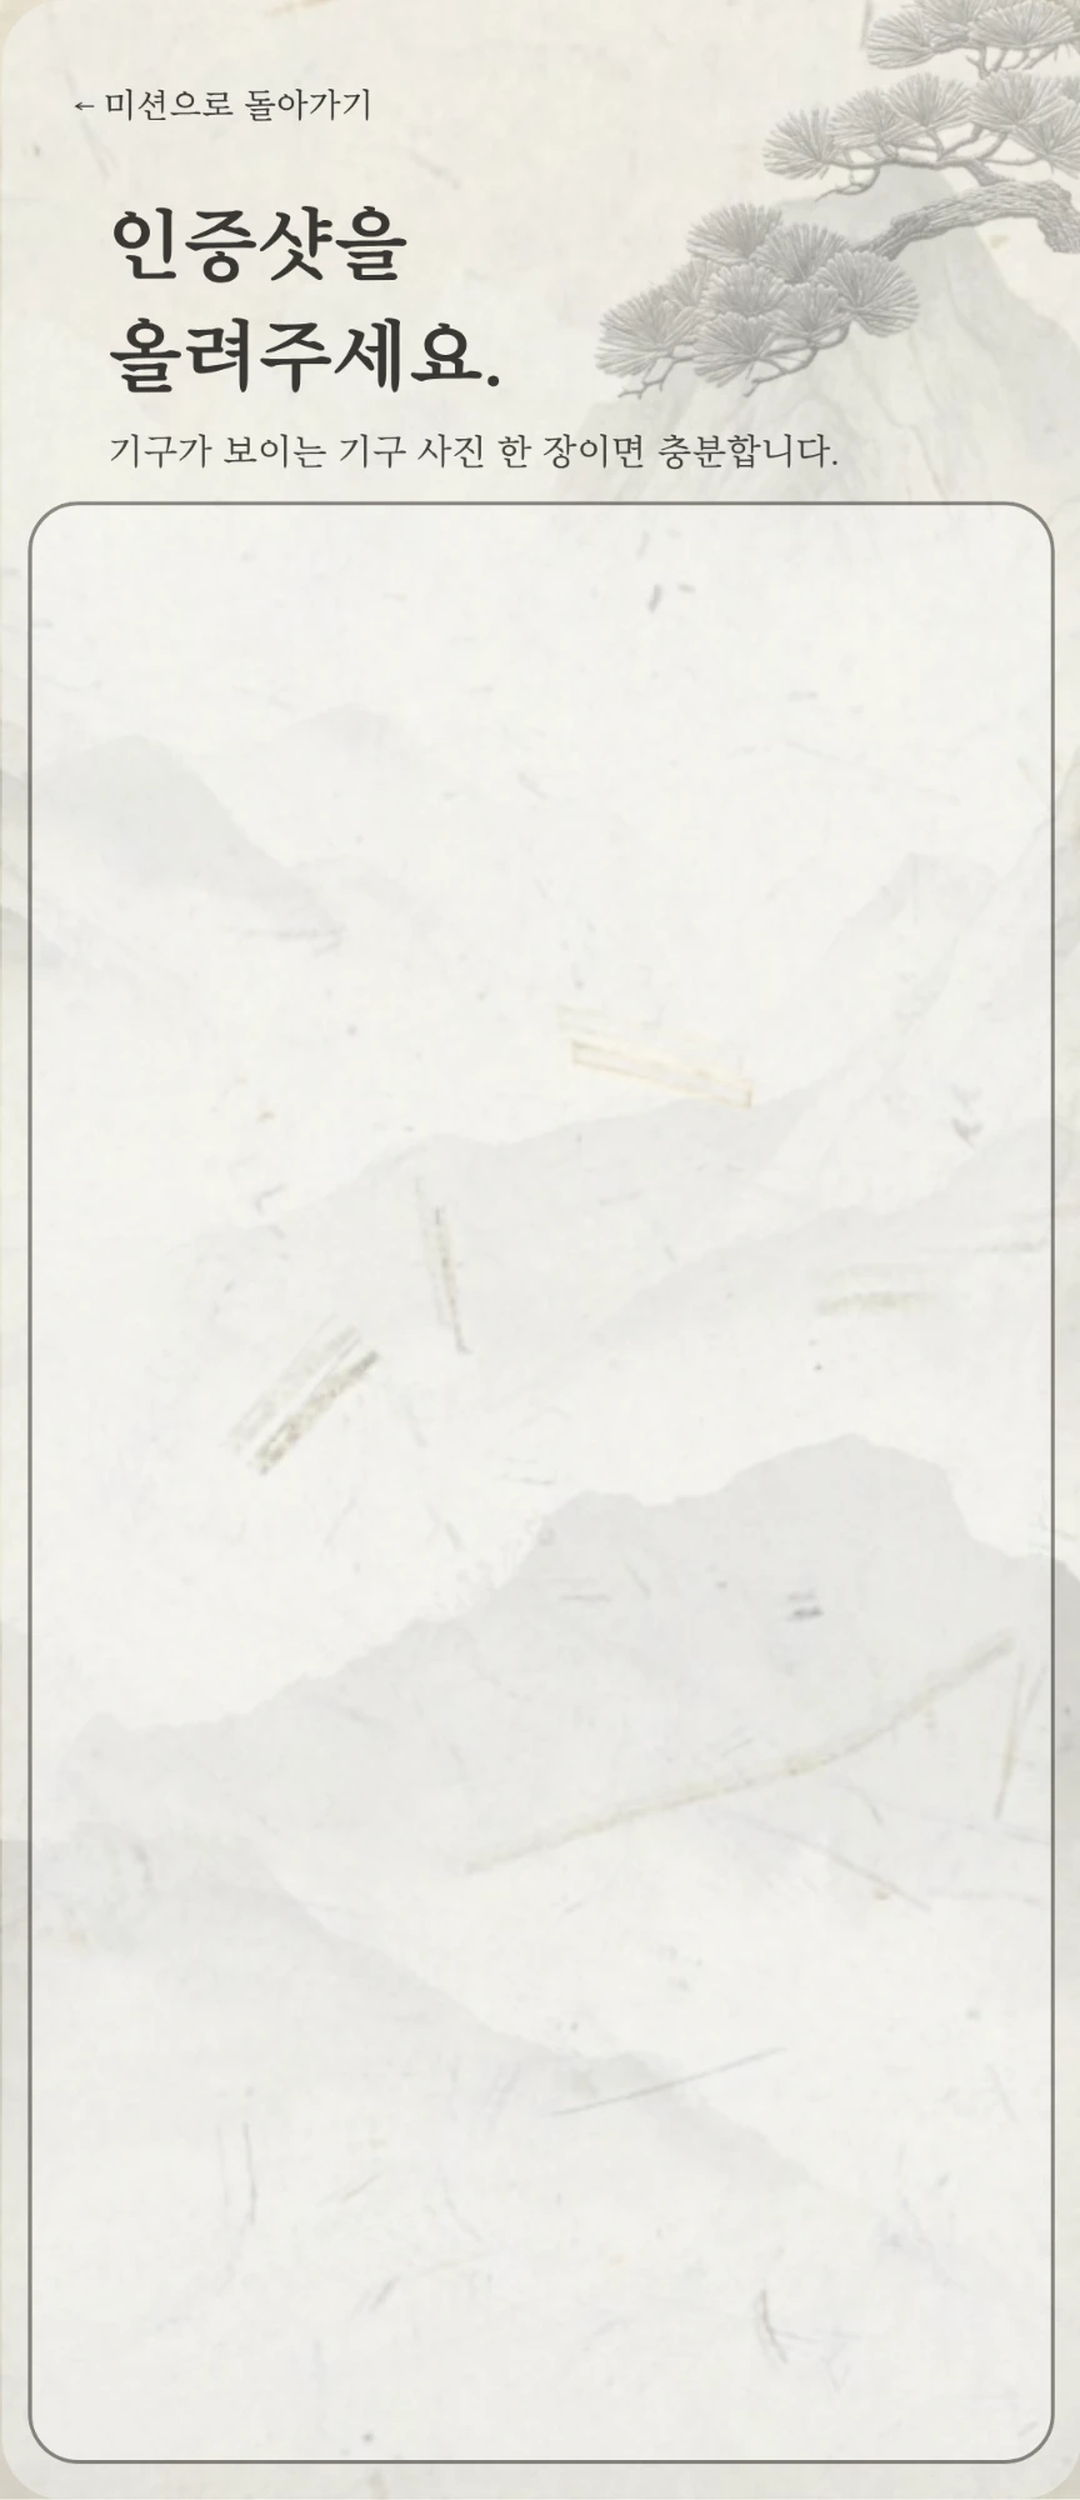
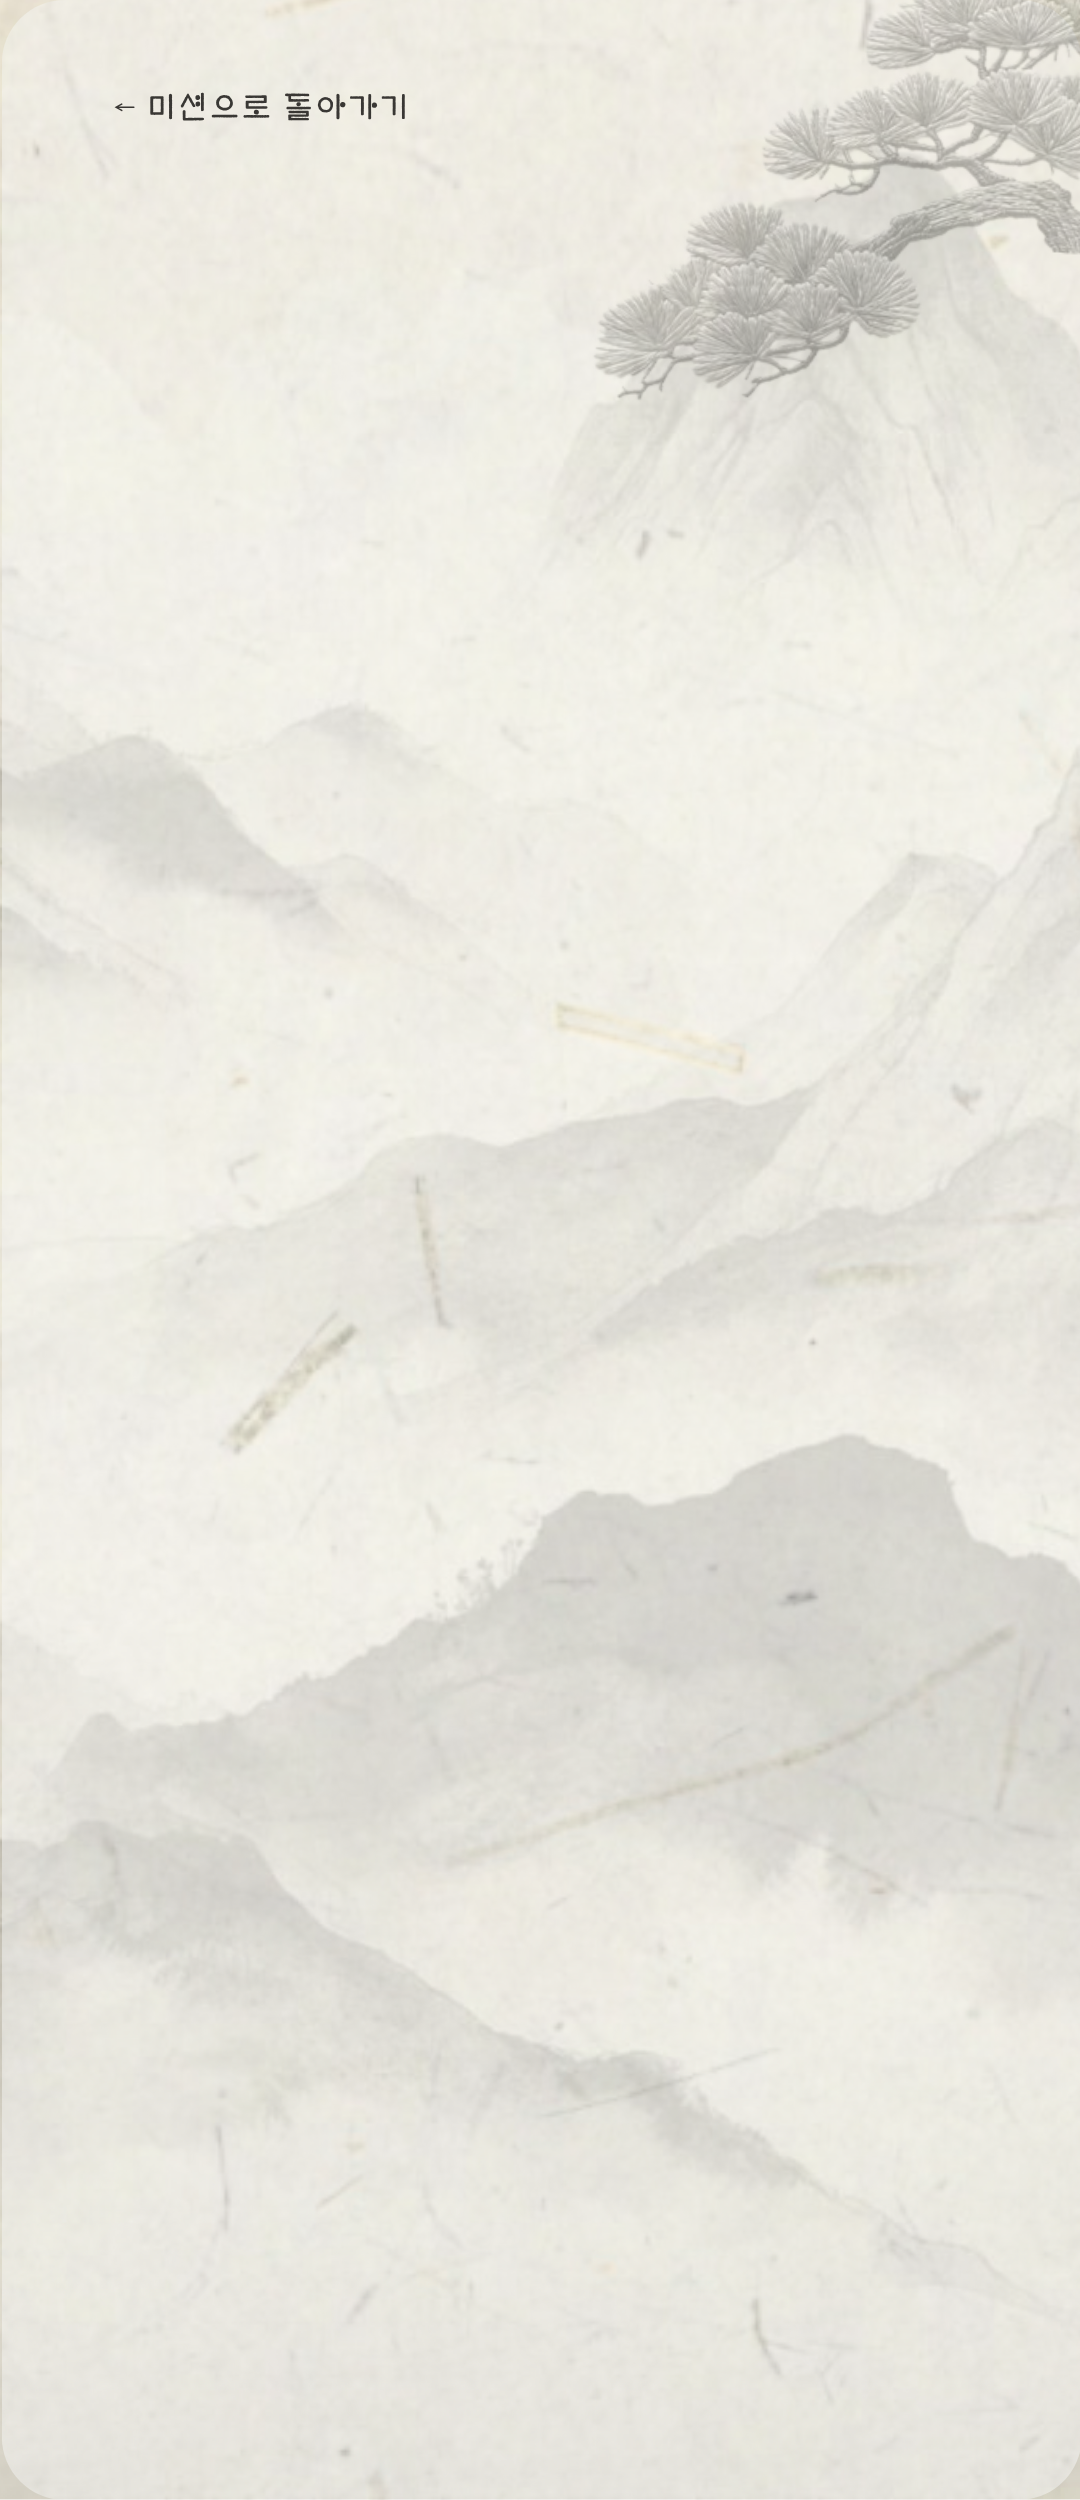
Najeon-style tap particles, GX list top-aligned, new verify background
- Character tap-burst now renders mother-of-pearl (najeon) butterflies
  and blossoms via gradient-filled SVG instead of default-colored
  emoji, matching the reference pattern.
- Mission list always starts from the top of the panel again (dropped
  the vertical-centering behavior per feedback).
- GX mission's equipment gallery reordered: 파워코어 트레이닝, 덤벨
  트레이닝, 요가, 매트필라테스.
- Verify (photo certification) screen background replaced with the
  cleaner plain version; the "인증샷을 올려주세요." title, previously
  baked into the old art, is now a live HTML element in the same spot
  so it survives the background swap.

Claude-Session: https://claude.ai/code/session_01ETpyKwDybWVp2Pysc4enQK

diff --git a/demos/full_flow.html b/demos/full_flow.html
@@ -63,10 +63,10 @@ button,
   position:fixed;
   left:0;top:0;
   transform:translate(-50%,-50%);
-  font-size:20px;
   pointer-events:none;
   z-index:999;
   animation:tapBurst .9s ease-out forwards;
+  filter:drop-shadow(0 1px 2px rgba(0,0,0,0.18));
 }
 @keyframes tapBurst{
   0%{transform:translate(-50%,-50%) translate(0,0) scale(0.5) rotate(0deg);opacity:1;}
@@ -495,6 +495,12 @@ button,
   left:6.9%;top:47.4%;width:60%;height:2.6%;
   display:flex;align-items:center;
   color:#3A3835;font-size:15px;font-weight:700;
+}
+.verify-title{
+  position:absolute;
+  left:9%;top:7.6%;width:60%;
+  margin:0;
+  color:var(--ink);font-size:28px;font-weight:700;line-height:1.35;
 }
 .verify-subtitle{
   position:absolute;
@@ -1225,6 +1231,7 @@ button,
     <div class="verify-wrap">
       <img class="hero" src="https://raw.githubusercontent.com/gran-seoul-fitness/10-/claude/happy-wozniak-zu6wr0/images/health/mission_verify_bg.png">
       <a class="verify-back" onclick="closeVerify()"></a>
+      <div class="verify-title">인증샷을<br>올려주세요.</div>
       <div class="verify-subtitle" id="verifySubtitle">기구가 보이는 사진 한 장이면 충분합니다.</div>
       <div class="verify-gallery" id="verifyGallery"></div>
       <div class="verify-badge" id="verifyBadge"></div>
@@ -1384,10 +1391,10 @@ const EQUIP_OPTIONS = {
     {name:'싱크로', img:'cardio-synchro.jpg'},
   ],
   'gx-0': [ // 요가·줌바·필라테스
+    {name:'파워코어 트레이닝', img:'gx-powercore.jpg'},
+    {name:'덤벨 트레이닝', img:'gx-dumbbell.jpg'},
     {name:'요가', img:'gx-yoga.jpg'},
     {name:'매트필라테스', img:'gx-matpilates.jpg'},
-    {name:'덤벨 트레이닝', img:'gx-dumbbell.jpg'},
-    {name:'파워코어트레이닝', img:'gx-powercore.jpg'},
   ],
   'stretch-0': [ // 기구 스트레칭
     {name:'FLEXABILITY ANTERIOR', img:'stretch-anterior.jpg'},
@@ -1455,14 +1462,6 @@ document.querySelectorAll('.zone-hit[data-zone]').forEach(zoneEl=>{
   });
 });
 
-/* Panel border box (measured from the mission background art) and per-card
-   size, both as % of the mission-wrap's height, used to vertically center
-   shorter mission lists inside the panel instead of hugging the top. */
-const MISSION_PANEL_TOP = 17.4;
-const MISSION_PANEL_BOTTOM = 86.5;
-const MISSION_CARD_H = 10.5;
-const MISSION_CARD_GAP_PCT = 1.85;
-
 function renderMissionList(key){
   const z = zones[key];
   const done = getDoneSet();
@@ -1481,12 +1480,6 @@ function renderMissionList(key){
       <div class="mission-name-bar">${m}</div>`;
     list.appendChild(item);
   });
-
-  const n = z.missions.length;
-  const contentH = n * MISSION_CARD_H + (n - 1) * MISSION_CARD_GAP_PCT;
-  const panelH = MISSION_PANEL_BOTTOM - MISSION_PANEL_TOP;
-  const centeredTop = MISSION_PANEL_TOP + Math.max(0, (panelH - contentH) / 2);
-  list.style.top = Math.max(centeredTop, 25.9) + '%';
 }
 
 document.getElementById('missionList').addEventListener('click', (e)=>{
@@ -2001,38 +1994,53 @@ if (location.hash === '#select') {
 }
 
 /* ---------- Tap the character: butterflies & flowers pop out ---------- */
-function spawnEmojiBurst(anchorEl, emojis){
-  const rect = anchorEl.getBoundingClientRect();
-  const cx = rect.left + rect.width / 2;
-  const cy = rect.top + rect.height / 2;
-  const count = 7;
-  for(let i = 0; i < count; i++){
-    const el = document.createElement('div');
-    el.className = 'tap-burst-particle';
-    el.textContent = emojis[Math.floor(Math.random() * emojis.length)];
-    const angle = (Math.PI * 2 / count) * i + (Math.random() * 0.5 - 0.25);
-    const dist = 50 + Math.random() * 34;
-    el.style.left = cx + 'px';
-    el.style.top = cy + 'px';
-    el.style.setProperty('--dx', Math.cos(angle) * dist + 'px');
-    el.style.setProperty('--dy', (Math.sin(angle) * dist - 24) + 'px');
-    el.style.setProperty('--rot', (Math.random() * 80 - 40) + 'deg');
-    document.body.appendChild(el);
-    setTimeout(() => el.remove(), 950);
-  }
-}
-
 const charWrapEl = document.querySelector('.char-wrap');
 charWrapEl.style.cursor = 'pointer';
 charWrapEl.addEventListener('click', () => {
-  spawnEmojiBurst(charWrapEl, ['🦋','🌸','🌼','✨']);
+  spawnEmojiBurst(charWrapEl);
   charWrapEl.classList.remove('tapped');
   void charWrapEl.offsetWidth;
   charWrapEl.classList.add('tapped');
 });
 
 /* ---------- Tap the character: butterflies & flowers pop out ---------- */
-function spawnEmojiBurst(anchorEl, emojis){
+let tapBurstIdCounter = 0;
+function najeonButterflySVG(uid){
+  return `<svg viewBox="0 0 40 32" width="26" height="21">
+    <defs>
+      <linearGradient id="pearl${uid}" x1="0" y1="0" x2="1" y2="1">
+        <stop offset="0%" stop-color="#F8F6F2"/>
+        <stop offset="35%" stop-color="#CFE0DE"/>
+        <stop offset="65%" stop-color="#D9CBE8"/>
+        <stop offset="100%" stop-color="#F0D9E2"/>
+      </linearGradient>
+    </defs>
+    <path d="M20 16 C14 2 2 2 3 12 C4 20 14 20 20 16 Z" fill="url(#pearl${uid})" stroke="#8B93A8" stroke-width="0.6"/>
+    <path d="M20 16 C26 2 38 2 37 12 C36 20 26 20 20 16 Z" fill="url(#pearl${uid})" stroke="#8B93A8" stroke-width="0.6"/>
+    <path d="M20 16 C15 20 8 26 10 30 C13 32 18 26 20 16 Z" fill="url(#pearl${uid})" stroke="#8B93A8" stroke-width="0.6" opacity="0.9"/>
+    <path d="M20 16 C25 20 32 26 30 30 C27 32 22 26 20 16 Z" fill="url(#pearl${uid})" stroke="#8B93A8" stroke-width="0.6" opacity="0.9"/>
+    <line x1="20" y1="10" x2="20" y2="20" stroke="#5B5F6E" stroke-width="1.2"/>
+  </svg>`;
+}
+function najeonBlossomSVG(uid){
+  return `<svg viewBox="0 0 32 32" width="22" height="22">
+    <defs>
+      <linearGradient id="pearlB${uid}" x1="0" y1="0" x2="1" y2="1">
+        <stop offset="0%" stop-color="#F8F6F2"/>
+        <stop offset="40%" stop-color="#E6D6E8"/>
+        <stop offset="100%" stop-color="#CFE0DE"/>
+      </linearGradient>
+    </defs>
+    <g fill="url(#pearlB${uid})" stroke="#8B93A8" stroke-width="0.6">
+      <ellipse cx="16" cy="7" rx="5" ry="7"/>
+      <ellipse cx="25" cy="16" rx="7" ry="5"/>
+      <ellipse cx="16" cy="25" rx="5" ry="7"/>
+      <ellipse cx="7" cy="16" rx="7" ry="5"/>
+    </g>
+    <circle cx="16" cy="16" r="3.5" fill="#E9C9A9"/>
+  </svg>`;
+}
+function spawnEmojiBurst(anchorEl){
   const rect = anchorEl.getBoundingClientRect();
   const cx = rect.left + rect.width / 2;
   const cy = rect.top + rect.height / 2;
@@ -2040,7 +2048,8 @@ function spawnEmojiBurst(anchorEl, emojis){
   for(let i = 0; i < count; i++){
     const el = document.createElement('div');
     el.className = 'tap-burst-particle';
-    el.textContent = emojis[Math.floor(Math.random() * emojis.length)];
+    tapBurstIdCounter++;
+    el.innerHTML = (i % 2 === 0) ? najeonButterflySVG(tapBurstIdCounter) : najeonBlossomSVG(tapBurstIdCounter);
     const angle = (Math.PI * 2 / count) * i + (Math.random() * 0.5 - 0.25);
     const dist = 46 + Math.random() * 30;
     el.style.left = cx + 'px';
@@ -2056,7 +2065,7 @@ function spawnEmojiBurst(anchorEl, emojis){
 const charMiniEl = document.getElementById('charMini');
 charMiniEl.style.cursor = 'pointer';
 charMiniEl.addEventListener('click', () => {
-  spawnEmojiBurst(charMiniEl, ['🦋','🌸','🌼','✨']);
+  spawnEmojiBurst(charMiniEl);
   charMiniEl.classList.remove('tapped');
   void charMiniEl.offsetWidth;
   charMiniEl.classList.add('tapped');

diff --git a/demos/gym_map.html b/demos/gym_map.html
@@ -63,10 +63,10 @@ button,
   position:fixed;
   left:0;top:0;
   transform:translate(-50%,-50%);
-  font-size:20px;
   pointer-events:none;
   z-index:999;
   animation:tapBurst .9s ease-out forwards;
+  filter:drop-shadow(0 1px 2px rgba(0,0,0,0.18));
 }
 @keyframes tapBurst{
   0%{transform:translate(-50%,-50%) translate(0,0) scale(0.5) rotate(0deg);opacity:1;}
@@ -376,6 +376,12 @@ button,
   left:6.9%;top:47.4%;width:60%;height:2.6%;
   display:flex;align-items:center;
   color:#3A3835;font-size:15px;font-weight:700;
+}
+.verify-title{
+  position:absolute;
+  left:9%;top:7.6%;width:60%;
+  margin:0;
+  color:var(--ink);font-size:28px;font-weight:700;line-height:1.35;
 }
 .verify-subtitle{
   position:absolute;
@@ -919,6 +925,7 @@ button,
     <div class="verify-wrap">
       <img class="hero" src="https://raw.githubusercontent.com/gran-seoul-fitness/10-/claude/happy-wozniak-zu6wr0/images/health/mission_verify_bg.png">
       <a class="verify-back" onclick="closeVerify()"></a>
+      <div class="verify-title">인증샷을<br>올려주세요.</div>
       <div class="verify-subtitle" id="verifySubtitle">기구가 보이는 사진 한 장이면 충분합니다.</div>
       <div class="verify-gallery" id="verifyGallery"></div>
       <div class="verify-badge" id="verifyBadge"></div>
@@ -1078,10 +1085,10 @@ const EQUIP_OPTIONS = {
     {name:'싱크로', img:'cardio-synchro.jpg'},
   ],
   'gx-0': [ // 요가·줌바·필라테스
+    {name:'파워코어 트레이닝', img:'gx-powercore.jpg'},
+    {name:'덤벨 트레이닝', img:'gx-dumbbell.jpg'},
     {name:'요가', img:'gx-yoga.jpg'},
     {name:'매트필라테스', img:'gx-matpilates.jpg'},
-    {name:'덤벨 트레이닝', img:'gx-dumbbell.jpg'},
-    {name:'파워코어트레이닝', img:'gx-powercore.jpg'},
   ],
   'stretch-0': [ // 기구 스트레칭
     {name:'FLEXABILITY ANTERIOR', img:'stretch-anterior.jpg'},
@@ -1149,14 +1156,6 @@ document.querySelectorAll('.zone-hit[data-zone]').forEach(zoneEl=>{
   });
 });
 
-/* Panel border box (measured from the mission background art) and per-card
-   size, both as % of the mission-wrap's height, used to vertically center
-   shorter mission lists inside the panel instead of hugging the top. */
-const MISSION_PANEL_TOP = 17.4;
-const MISSION_PANEL_BOTTOM = 86.5;
-const MISSION_CARD_H = 10.5;
-const MISSION_CARD_GAP_PCT = 1.85;
-
 function renderMissionList(key){
   const z = zones[key];
   const done = getDoneSet();
@@ -1175,12 +1174,6 @@ function renderMissionList(key){
       <div class="mission-name-bar">${m}</div>`;
     list.appendChild(item);
   });
-
-  const n = z.missions.length;
-  const contentH = n * MISSION_CARD_H + (n - 1) * MISSION_CARD_GAP_PCT;
-  const panelH = MISSION_PANEL_BOTTOM - MISSION_PANEL_TOP;
-  const centeredTop = MISSION_PANEL_TOP + Math.max(0, (panelH - contentH) / 2);
-  list.style.top = Math.max(centeredTop, 25.9) + '%';
 }
 
 document.getElementById('missionList').addEventListener('click', (e)=>{
@@ -1619,7 +1612,43 @@ updateProgressUI();
 restoreCharacterMini();
 
 /* ---------- Tap the character: butterflies & flowers pop out ---------- */
-function spawnEmojiBurst(anchorEl, emojis){
+let tapBurstIdCounter = 0;
+function najeonButterflySVG(uid){
+  return `<svg viewBox="0 0 40 32" width="26" height="21">
+    <defs>
+      <linearGradient id="pearl${uid}" x1="0" y1="0" x2="1" y2="1">
+        <stop offset="0%" stop-color="#F8F6F2"/>
+        <stop offset="35%" stop-color="#CFE0DE"/>
+        <stop offset="65%" stop-color="#D9CBE8"/>
+        <stop offset="100%" stop-color="#F0D9E2"/>
+      </linearGradient>
+    </defs>
+    <path d="M20 16 C14 2 2 2 3 12 C4 20 14 20 20 16 Z" fill="url(#pearl${uid})" stroke="#8B93A8" stroke-width="0.6"/>
+    <path d="M20 16 C26 2 38 2 37 12 C36 20 26 20 20 16 Z" fill="url(#pearl${uid})" stroke="#8B93A8" stroke-width="0.6"/>
+    <path d="M20 16 C15 20 8 26 10 30 C13 32 18 26 20 16 Z" fill="url(#pearl${uid})" stroke="#8B93A8" stroke-width="0.6" opacity="0.9"/>
+    <path d="M20 16 C25 20 32 26 30 30 C27 32 22 26 20 16 Z" fill="url(#pearl${uid})" stroke="#8B93A8" stroke-width="0.6" opacity="0.9"/>
+    <line x1="20" y1="10" x2="20" y2="20" stroke="#5B5F6E" stroke-width="1.2"/>
+  </svg>`;
+}
+function najeonBlossomSVG(uid){
+  return `<svg viewBox="0 0 32 32" width="22" height="22">
+    <defs>
+      <linearGradient id="pearlB${uid}" x1="0" y1="0" x2="1" y2="1">
+        <stop offset="0%" stop-color="#F8F6F2"/>
+        <stop offset="40%" stop-color="#E6D6E8"/>
+        <stop offset="100%" stop-color="#CFE0DE"/>
+      </linearGradient>
+    </defs>
+    <g fill="url(#pearlB${uid})" stroke="#8B93A8" stroke-width="0.6">
+      <ellipse cx="16" cy="7" rx="5" ry="7"/>
+      <ellipse cx="25" cy="16" rx="7" ry="5"/>
+      <ellipse cx="16" cy="25" rx="5" ry="7"/>
+      <ellipse cx="7" cy="16" rx="7" ry="5"/>
+    </g>
+    <circle cx="16" cy="16" r="3.5" fill="#E9C9A9"/>
+  </svg>`;
+}
+function spawnEmojiBurst(anchorEl){
   const rect = anchorEl.getBoundingClientRect();
   const cx = rect.left + rect.width / 2;
   const cy = rect.top + rect.height / 2;
@@ -1627,7 +1656,8 @@ function spawnEmojiBurst(anchorEl, emojis){
   for(let i = 0; i < count; i++){
     const el = document.createElement('div');
     el.className = 'tap-burst-particle';
-    el.textContent = emojis[Math.floor(Math.random() * emojis.length)];
+    tapBurstIdCounter++;
+    el.innerHTML = (i % 2 === 0) ? najeonButterflySVG(tapBurstIdCounter) : najeonBlossomSVG(tapBurstIdCounter);
     const angle = (Math.PI * 2 / count) * i + (Math.random() * 0.5 - 0.25);
     const dist = 46 + Math.random() * 30;
     el.style.left = cx + 'px';
@@ -1643,7 +1673,7 @@ function spawnEmojiBurst(anchorEl, emojis){
 const charMiniEl = document.getElementById('charMini');
 charMiniEl.style.cursor = 'pointer';
 charMiniEl.addEventListener('click', () => {
-  spawnEmojiBurst(charMiniEl, ['🦋','🌸','🌼','✨']);
+  spawnEmojiBurst(charMiniEl);
   charMiniEl.classList.remove('tapped');
   void charMiniEl.offsetWidth;
   charMiniEl.classList.add('tapped');

diff --git a/demos/health_challenge.html b/demos/health_challenge.html
@@ -58,10 +58,10 @@ button, .btn-mini, .btn-quickstart, .btn-start{
   position:fixed;
   left:0;top:0;
   transform:translate(-50%,-50%);
-  font-size:22px;
   pointer-events:none;
   z-index:999;
   animation:tapBurst .9s ease-out forwards;
+  filter:drop-shadow(0 1px 2px rgba(0,0,0,0.18));
 }
 @keyframes tapBurst{
   0%{transform:translate(-50%,-50%) translate(0,0) scale(0.5) rotate(0deg);opacity:1;}
@@ -472,7 +472,43 @@ if (location.hash === '#select') {
 }
 
 /* ---------- Tap the character: butterflies & flowers pop out ---------- */
-function spawnEmojiBurst(anchorEl, emojis){
+let tapBurstIdCounter = 0;
+function najeonButterflySVG(uid){
+  return `<svg viewBox="0 0 40 32" width="26" height="21">
+    <defs>
+      <linearGradient id="pearl${uid}" x1="0" y1="0" x2="1" y2="1">
+        <stop offset="0%" stop-color="#F8F6F2"/>
+        <stop offset="35%" stop-color="#CFE0DE"/>
+        <stop offset="65%" stop-color="#D9CBE8"/>
+        <stop offset="100%" stop-color="#F0D9E2"/>
+      </linearGradient>
+    </defs>
+    <path d="M20 16 C14 2 2 2 3 12 C4 20 14 20 20 16 Z" fill="url(#pearl${uid})" stroke="#8B93A8" stroke-width="0.6"/>
+    <path d="M20 16 C26 2 38 2 37 12 C36 20 26 20 20 16 Z" fill="url(#pearl${uid})" stroke="#8B93A8" stroke-width="0.6"/>
+    <path d="M20 16 C15 20 8 26 10 30 C13 32 18 26 20 16 Z" fill="url(#pearl${uid})" stroke="#8B93A8" stroke-width="0.6" opacity="0.9"/>
+    <path d="M20 16 C25 20 32 26 30 30 C27 32 22 26 20 16 Z" fill="url(#pearl${uid})" stroke="#8B93A8" stroke-width="0.6" opacity="0.9"/>
+    <line x1="20" y1="10" x2="20" y2="20" stroke="#5B5F6E" stroke-width="1.2"/>
+  </svg>`;
+}
+function najeonBlossomSVG(uid){
+  return `<svg viewBox="0 0 32 32" width="22" height="22">
+    <defs>
+      <linearGradient id="pearlB${uid}" x1="0" y1="0" x2="1" y2="1">
+        <stop offset="0%" stop-color="#F8F6F2"/>
+        <stop offset="40%" stop-color="#E6D6E8"/>
+        <stop offset="100%" stop-color="#CFE0DE"/>
+      </linearGradient>
+    </defs>
+    <g fill="url(#pearlB${uid})" stroke="#8B93A8" stroke-width="0.6">
+      <ellipse cx="16" cy="7" rx="5" ry="7"/>
+      <ellipse cx="25" cy="16" rx="7" ry="5"/>
+      <ellipse cx="16" cy="25" rx="5" ry="7"/>
+      <ellipse cx="7" cy="16" rx="7" ry="5"/>
+    </g>
+    <circle cx="16" cy="16" r="3.5" fill="#E9C9A9"/>
+  </svg>`;
+}
+function spawnEmojiBurst(anchorEl){
   const rect = anchorEl.getBoundingClientRect();
   const cx = rect.left + rect.width / 2;
   const cy = rect.top + rect.height / 2;
@@ -480,7 +516,8 @@ function spawnEmojiBurst(anchorEl, emojis){
   for(let i = 0; i < count; i++){
     const el = document.createElement('div');
     el.className = 'tap-burst-particle';
-    el.textContent = emojis[Math.floor(Math.random() * emojis.length)];
+    tapBurstIdCounter++;
+    el.innerHTML = (i % 2 === 0) ? najeonButterflySVG(tapBurstIdCounter) : najeonBlossomSVG(tapBurstIdCounter);
     const angle = (Math.PI * 2 / count) * i + (Math.random() * 0.5 - 0.25);
     const dist = 50 + Math.random() * 34;
     el.style.left = cx + 'px';
@@ -496,7 +533,7 @@ function spawnEmojiBurst(anchorEl, emojis){
 const charWrapEl = document.querySelector('.char-wrap');
 charWrapEl.style.cursor = 'pointer';
 charWrapEl.addEventListener('click', () => {
-  spawnEmojiBurst(charWrapEl, ['🦋','🌸','🌼','✨']);
+  spawnEmojiBurst(charWrapEl);
   charWrapEl.classList.remove('tapped');
   void charWrapEl.offsetWidth;
   charWrapEl.classList.add('tapped');
